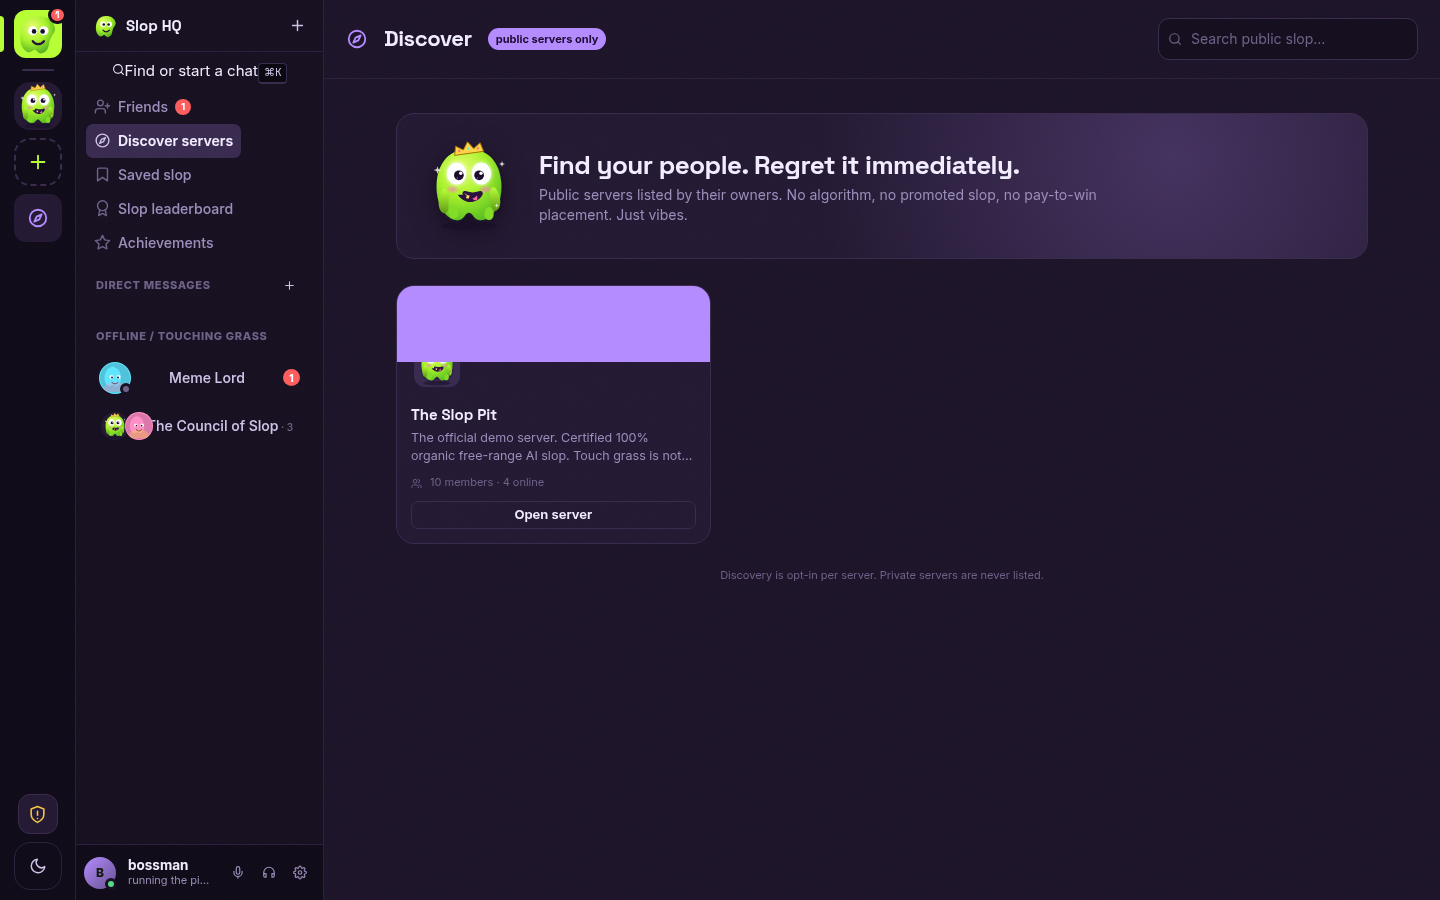
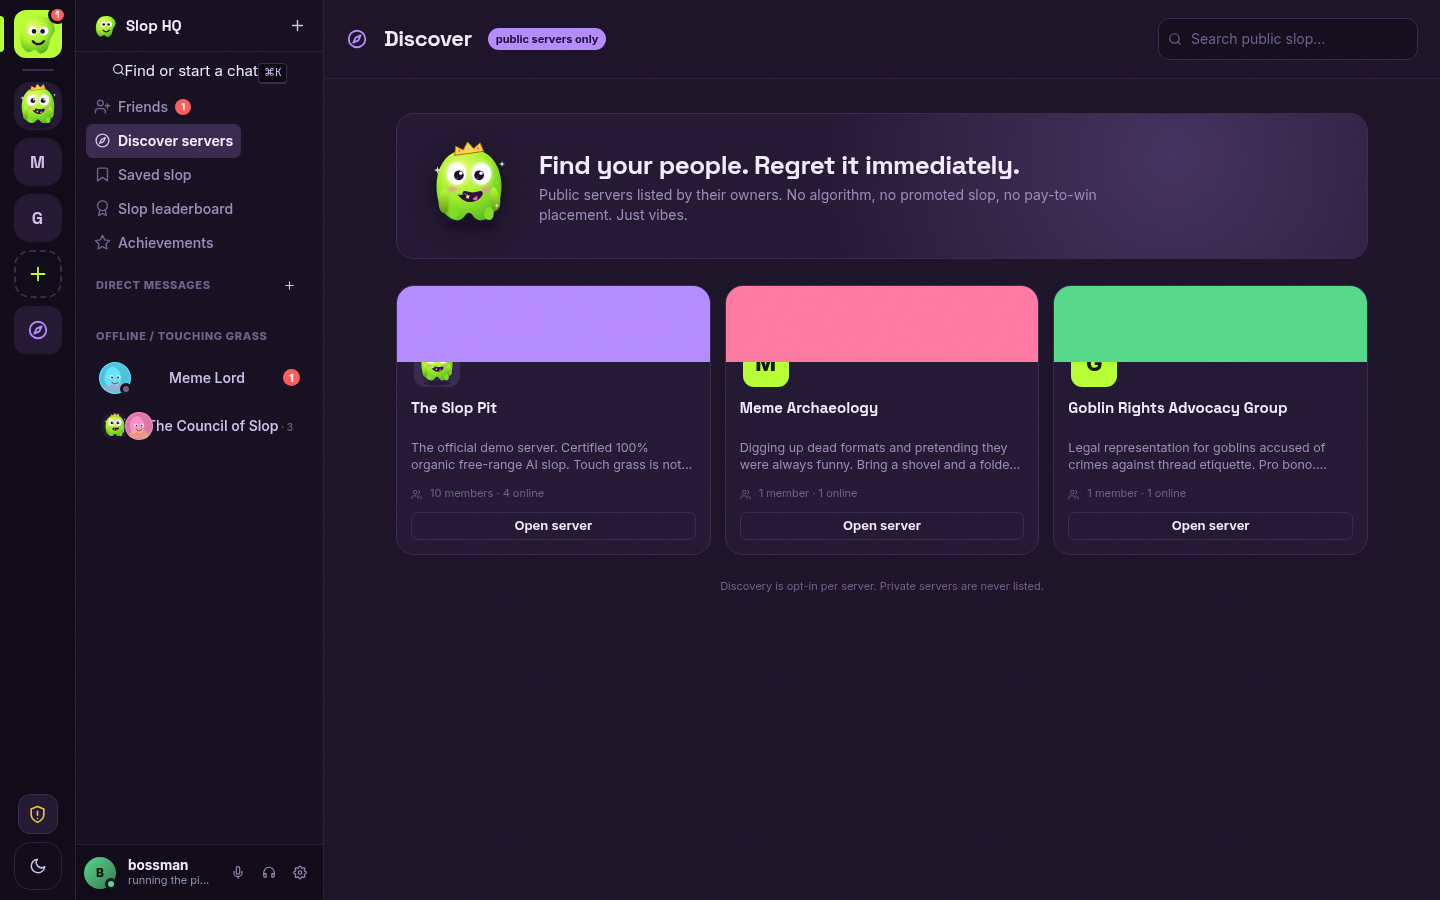
fix(discover): align server cards and responsive search
Cards in a grid row stretched to equal height but their contents did not,
so names, descriptions and action buttons landed at different vertical
positions. Give the body a flex column, clamp the name, reserve consistent
text height and anchor the footer to the bottom. Wrap the Discover search
below the title when the content column is narrow.

diff --git a/src/client/styles/app.css b/src/client/styles/app.css
@@ -153,11 +153,14 @@
 .leaderboard-row .lb-score { font-family: var(--font-mono); font-size: 12px; color: var(--accent); }
 .server-card { display: flex; flex-direction: column; background: var(--bg-raised); border: 1px solid var(--border); border-radius: var(--radius-lg); overflow: hidden; transition: transform .15s, border-color .15s; }
 .server-card:hover { transform: translateY(-2px); border-color: var(--muted); }
-.server-card .sc-banner { height: 76px; background: linear-gradient(120deg, var(--purple), var(--pink), var(--accent-2)); position: relative; }
-.server-card .sc-body { padding: 0 14px 14px; margin-top: -24px; }
-.server-card .sc-icon { width: 52px; height: 52px; border-radius: 14px; border: 3px solid var(--bg-raised); background: var(--bg-active); object-fit: cover; margin-bottom: 8px; }
-.server-card .sc-name { font-family: var(--font-display); font-weight: 750; font-size: 15px; }
-.server-card .sc-desc { color: var(--muted); font-size: 12.5px; min-height: 36px; margin: 3px 0 10px; display: -webkit-box; -webkit-line-clamp: 2; -webkit-box-orient: vertical; overflow: hidden; }
+.server-card .sc-banner { height: 76px; flex-shrink: 0; background: linear-gradient(120deg, var(--purple), var(--pink), var(--accent-2)); position: relative; }
+.server-card .sc-body { flex: 1; display: flex; flex-direction: column; padding: 0 14px 14px; margin-top: -24px; }
+.server-card .sc-icon { width: 52px; height: 52px; flex-shrink: 0; border-radius: 14px; border: 3px solid var(--bg-raised); background: var(--bg-active); object-fit: cover; margin-bottom: 8px; }
+.server-card .sc-name { flex-shrink: 0; min-height: 2.6em; font-family: var(--font-display); font-weight: 750; font-size: 15px; line-height: 1.3; overflow-wrap: anywhere; display: -webkit-box; -webkit-line-clamp: 2; -webkit-box-orient: vertical; overflow: hidden; }
+.server-card .sc-desc { flex-shrink: 0; color: var(--muted); font-size: 12.5px; min-height: 36px; margin: 3px 0 10px; line-height: 1.35; display: -webkit-box; -webkit-line-clamp: 2; -webkit-box-orient: vertical; overflow: hidden; }
+.server-card .sc-footer { margin-top: auto; }
+.server-card .sc-meta { display: flex; align-items: center; gap: 8px; margin-bottom: 10px; color: var(--faint); font-size: 11px; }
+.discover-search { margin-left: auto; width: 260px; flex-shrink: 0; }
 .discover-grid { display: grid; grid-template-columns: repeat(auto-fill, minmax(240px, 1fr)); gap: 14px; }
 
 /* ---- Profile panel/popover ---- */
@@ -189,6 +192,14 @@
 /* ---- Misc pages ---- */
 .page-head { display: flex; align-items: center; gap: 16px; padding: 18px 22px; border-bottom: 1px solid var(--border-soft); }
 .page-head h1 { font-size: 22px; }
+
+@media (max-width: 920px) {
+  .page-head { flex-wrap: wrap; row-gap: 10px; }
+  .discover-search { order: 10; width: 100%; margin-left: 0; }
+}
+@media (max-width: 720px) {
+  .page-head { padding: 12px 14px; gap: 10px; }
+}
 .page-body { padding: 22px; max-width: 1000px; margin: 0 auto; }
 .toolbar { display: flex; align-items: center; gap: 8px; flex-wrap: wrap; margin-bottom: 16px; }
 .toolbar .grow { flex: 1; min-width: 140px; }

diff --git a/src/client/views/DiscoverView.tsx b/src/client/views/DiscoverView.tsx
@@ -44,7 +44,7 @@ export function DiscoverView() {
         <Icon name="compass" size={22} class="text-purple" />
         <h1>Discover</h1>
         <span class="badge purple">public servers only</span>
-        <div class="search-input" style={{ marginLeft: 'auto', width: 260 }}>
+        <div class="search-input discover-search">
           <Icon name="search" size={14} />
           <input class="input" placeholder="Search public slop…" value={query} onInput={(e) => setQuery((e.target as HTMLInputElement).value)} />
         </div>
@@ -67,12 +67,14 @@ export function DiscoverView() {
                   <div class="sc-banner" style={s.bannerColor ? { background: s.bannerColor } : undefined} />
                   <div class="sc-body">
                     {s.icon ? <img class="sc-icon" src={s.icon} alt="" /> : <div class="sc-icon center" style={{ display: 'flex', fontSize: 22, fontWeight: 800, color: 'var(--accent-ink)', background: 'var(--accent)' }}>{s.name?.charAt(0)}</div>}
-                    <div class="sc-name">{s.name}</div>
+                    <div class="sc-name" title={s.name}>{s.name}</div>
                     <div class="sc-desc">{s.description || 'No description. The mystery is the marketing.'}</div>
-                    <div class="row gap-8 faint" style={{ fontSize: 11, marginBottom: 10 }}><Icon name="users" size={11} /> {s.memberCount ?? 0} members {s.onlineCount ? `· ${s.onlineCount} online` : ''}</div>
-                    <button class={`btn btn-sm btn-block ${member ? '' : 'btn-primary'}`} disabled={joining === s.id} onClick={() => join(s)}>
-                      {joining === s.id ? 'Joining…' : member ? 'Open server' : 'Enter the slop'}
-                    </button>
+                    <div class="sc-footer">
+                      <div class="sc-meta"><Icon name="users" size={11} /> {s.memberCount ?? 0} {(s.memberCount ?? 0) === 1 ? 'member' : 'members'} {s.onlineCount ? `· ${s.onlineCount} online` : ''}</div>
+                      <button class={`btn btn-sm btn-block ${member ? '' : 'btn-primary'}`} disabled={joining === s.id} onClick={() => join(s)}>
+                        {joining === s.id ? 'Joining…' : member ? 'Open server' : 'Enter the slop'}
+                      </button>
+                    </div>
                   </div>
                 </div>;
               })}

diff --git a/scripts/screenshot.ts b/scripts/screenshot.ts
@@ -191,6 +191,18 @@ try {
   const memberRow = adminPage.locator('.member-item', { hasText: 'Pixel Goblin' }).first();
   if (await memberRow.count()) { await memberRow.click(); await adminPage.waitForTimeout(600); await shot(adminPage, '13-profile.png'); await adminPage.keyboard.press('Escape'); }
 
+  // Two extra public servers make the Discover card grid representative (and exercise footer alignment).
+  for (const spec of [
+    { name: 'Meme Archaeology', bannerColor: '#ff7aa2', description: 'Digging up dead formats and pretending they were always funny. Bring a shovel and a folder of 2012 reaction images.' },
+    { name: 'Goblin Rights Advocacy Group', bannerColor: '#57d98a', description: 'Legal representation for goblins accused of crimes against thread etiquette. Pro bono. Mostly.' },
+  ]) {
+    const created = await adminRequest.post(base + '/api/servers', { data: spec });
+    if (!created.ok()) throw new Error(`discover fixture server failed: ${created.status()} ${await created.text()}`);
+    const payload = await created.json();
+    const published = await adminRequest.patch(base + `/api/servers/${payload.server.id}`, { data: { isPublic: true, bannerColor: spec.bannerColor } });
+    if (!published.ok()) throw new Error(`discover fixture publish failed: ${published.status()} ${await published.text()}`);
+  }
+
   await adminPage.goto(`${base}/discover`, { waitUntil: 'networkidle' });
   await adminPage.waitForTimeout(800);
   await shot(adminPage, '14-discover.png');
